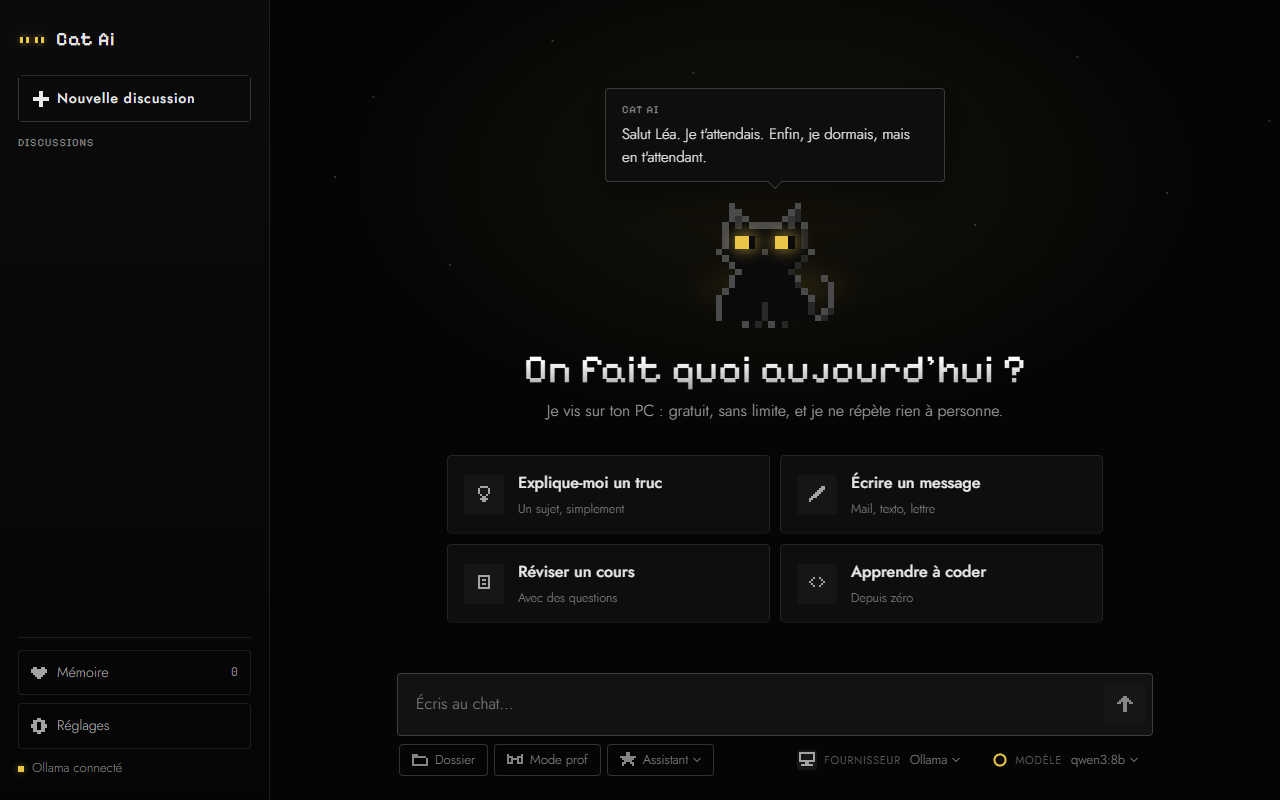
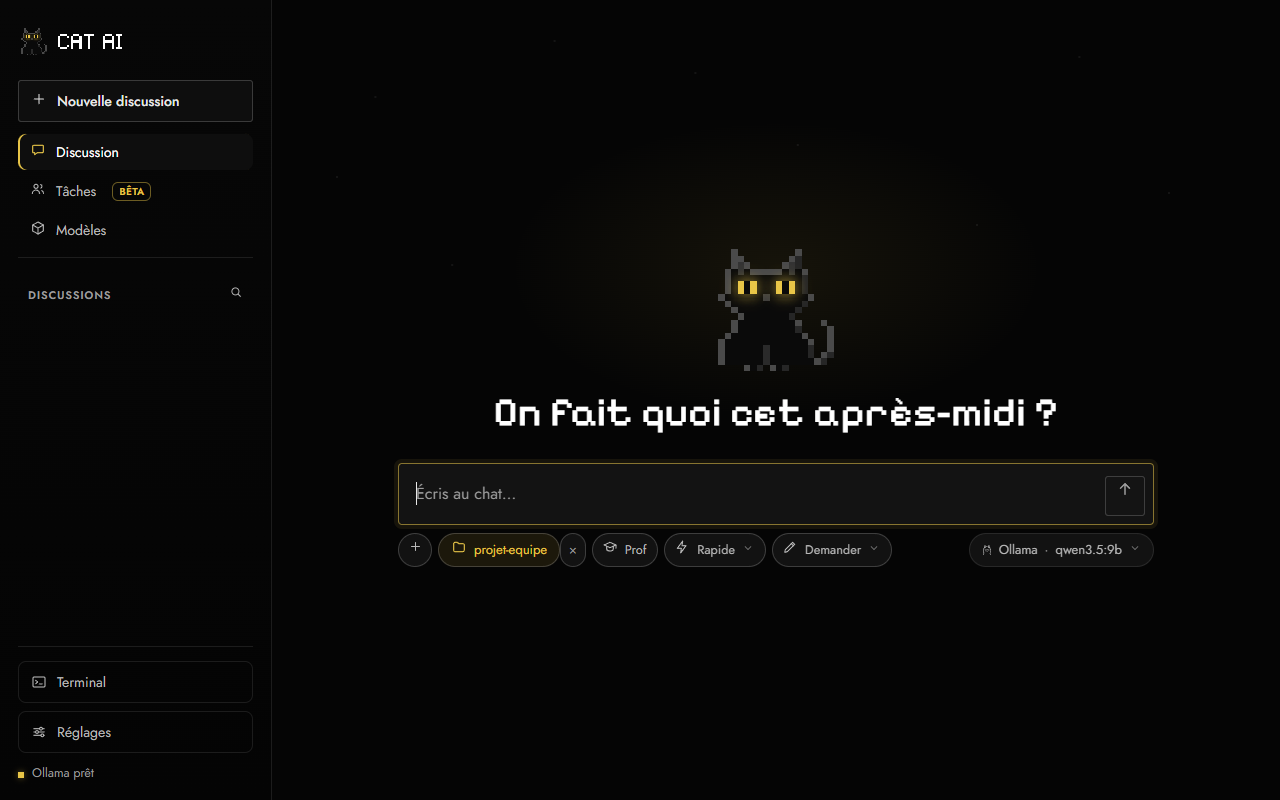
Agents en bêta, captures de la 2.0, coupure aux mots dans catai

diff --git a/index.html b/index.html
@@ -20,7 +20,7 @@
     <nav class="nav" aria-label="Pages">
       <button class="nav__lien is-actif" data-page="discussion" type="button" aria-current="page"><span data-icone="bulle"></span>Discussion</button>
       <button class="nav__lien" data-page="agents" type="button"><span data-icone="agents"></span>Agents</button>
-      <button class="nav__lien" data-page="taches" type="button"><span data-icone="agents"></span>Tâches<span id="taches-badge" class="nav__badge" hidden></span></button>
+      <button class="nav__lien" data-page="taches" type="button"><span data-icone="agents"></span>Tâches<span class="etiquette-beta" title="Les agents sont encore en test : regarde toujours leur travail avant de le garder">Bêta</span><span id="taches-badge" class="nav__badge" hidden></span></button>
       <button class="nav__lien" data-page="modeles" type="button"><span data-icone="boite"></span>Modèles</button>
     </nav>
 
@@ -224,8 +224,9 @@
       <div class="page__contenu">
         <header class="page__tete">
           <div>
-            <h2 class="page__titre">Tâches</h2>
+            <h2 class="page__titre">Tâches <span class="etiquette-beta">Bêta</span></h2>
             <p id="taches-projet" class="taches__projet"></p>
+            <p class="taches__beta">Les agents sont encore en test : regarde toujours leur travail (Voir) avant de le garder.</p>
           </div>
         </header>
         <form id="tache-form" class="tache-nouvelle">

diff --git a/style.css b/style.css
@@ -1237,6 +1237,9 @@ button.menu-modeles__titre--fournisseur[aria-expanded="false"] .menu-modeles__fl
 .diff__texte { white-space: pre; }
 
 /* Page Tâches (interface/taches.js) : la nouvelle tâche en haut, puis une carte par tâche, les plus récentes d'abord */
+.etiquette-beta { display: inline-block; margin-left: 6px; padding: 1px 6px; border: 1px solid rgba(var(--oeil-rvb), .45); border-radius: 6px; color: var(--oeil); font: 600 10px/1.5 var(--police-texte); letter-spacing: .04em; text-transform: uppercase; vertical-align: middle; }
+.page__titre .etiquette-beta { font-size: 11px; vertical-align: 6px; }
+.taches__beta { margin: 6px 0 0; color: var(--texte-3); font-size: 12.5px; }
 .nav__badge { margin-left: auto; min-width: 18px; height: 18px; padding: 0 5px; border-radius: 9px; background: rgba(var(--oeil-rvb), .18); color: var(--oeil); font: 600 11px/18px var(--police-texte); text-align: center; }
 .taches__projet { margin: 6px 0 0; color: var(--texte-2); font-size: 13px; }
 .tache-nouvelle { display: flex; gap: 10px; align-items: flex-end; margin-bottom: 10px; }

diff --git a/cli/ecran.js b/cli/ecran.js
@@ -162,10 +162,12 @@ function creerEcran({ sortie = process.stdout, actif = !!sortie.isTTY && !proces
     let s = `${CSI}?2026h\r${auDessus ? `${CSI}${auDessus}A` : ''}${CSI}J`;
     const lignes = (enCours + nettoyer(nouveau)).split('\n');
     enCours = finir(lignes.pop());
+    // Une ligne finie plus large que l'écran passe à la ligne entre deux mots (le terminal la coupait n'importe où)
     for (const l of lignes) {
-      const ligne = finir(l);
-      historique.push(ligne);
-      s += `${ligne}${CSI}0m\r\n`;
+      for (const ligne of couper(finir(l), L, { mots: true })) {
+        historique.push(ligne);
+        s += `${ligne}${CSI}0m\r\n`;
+      }
     }
     // Une ligne commencée plus large que l'écran : ses premières lignes d'écran sont finies, elles montent
     if (enCours) {
